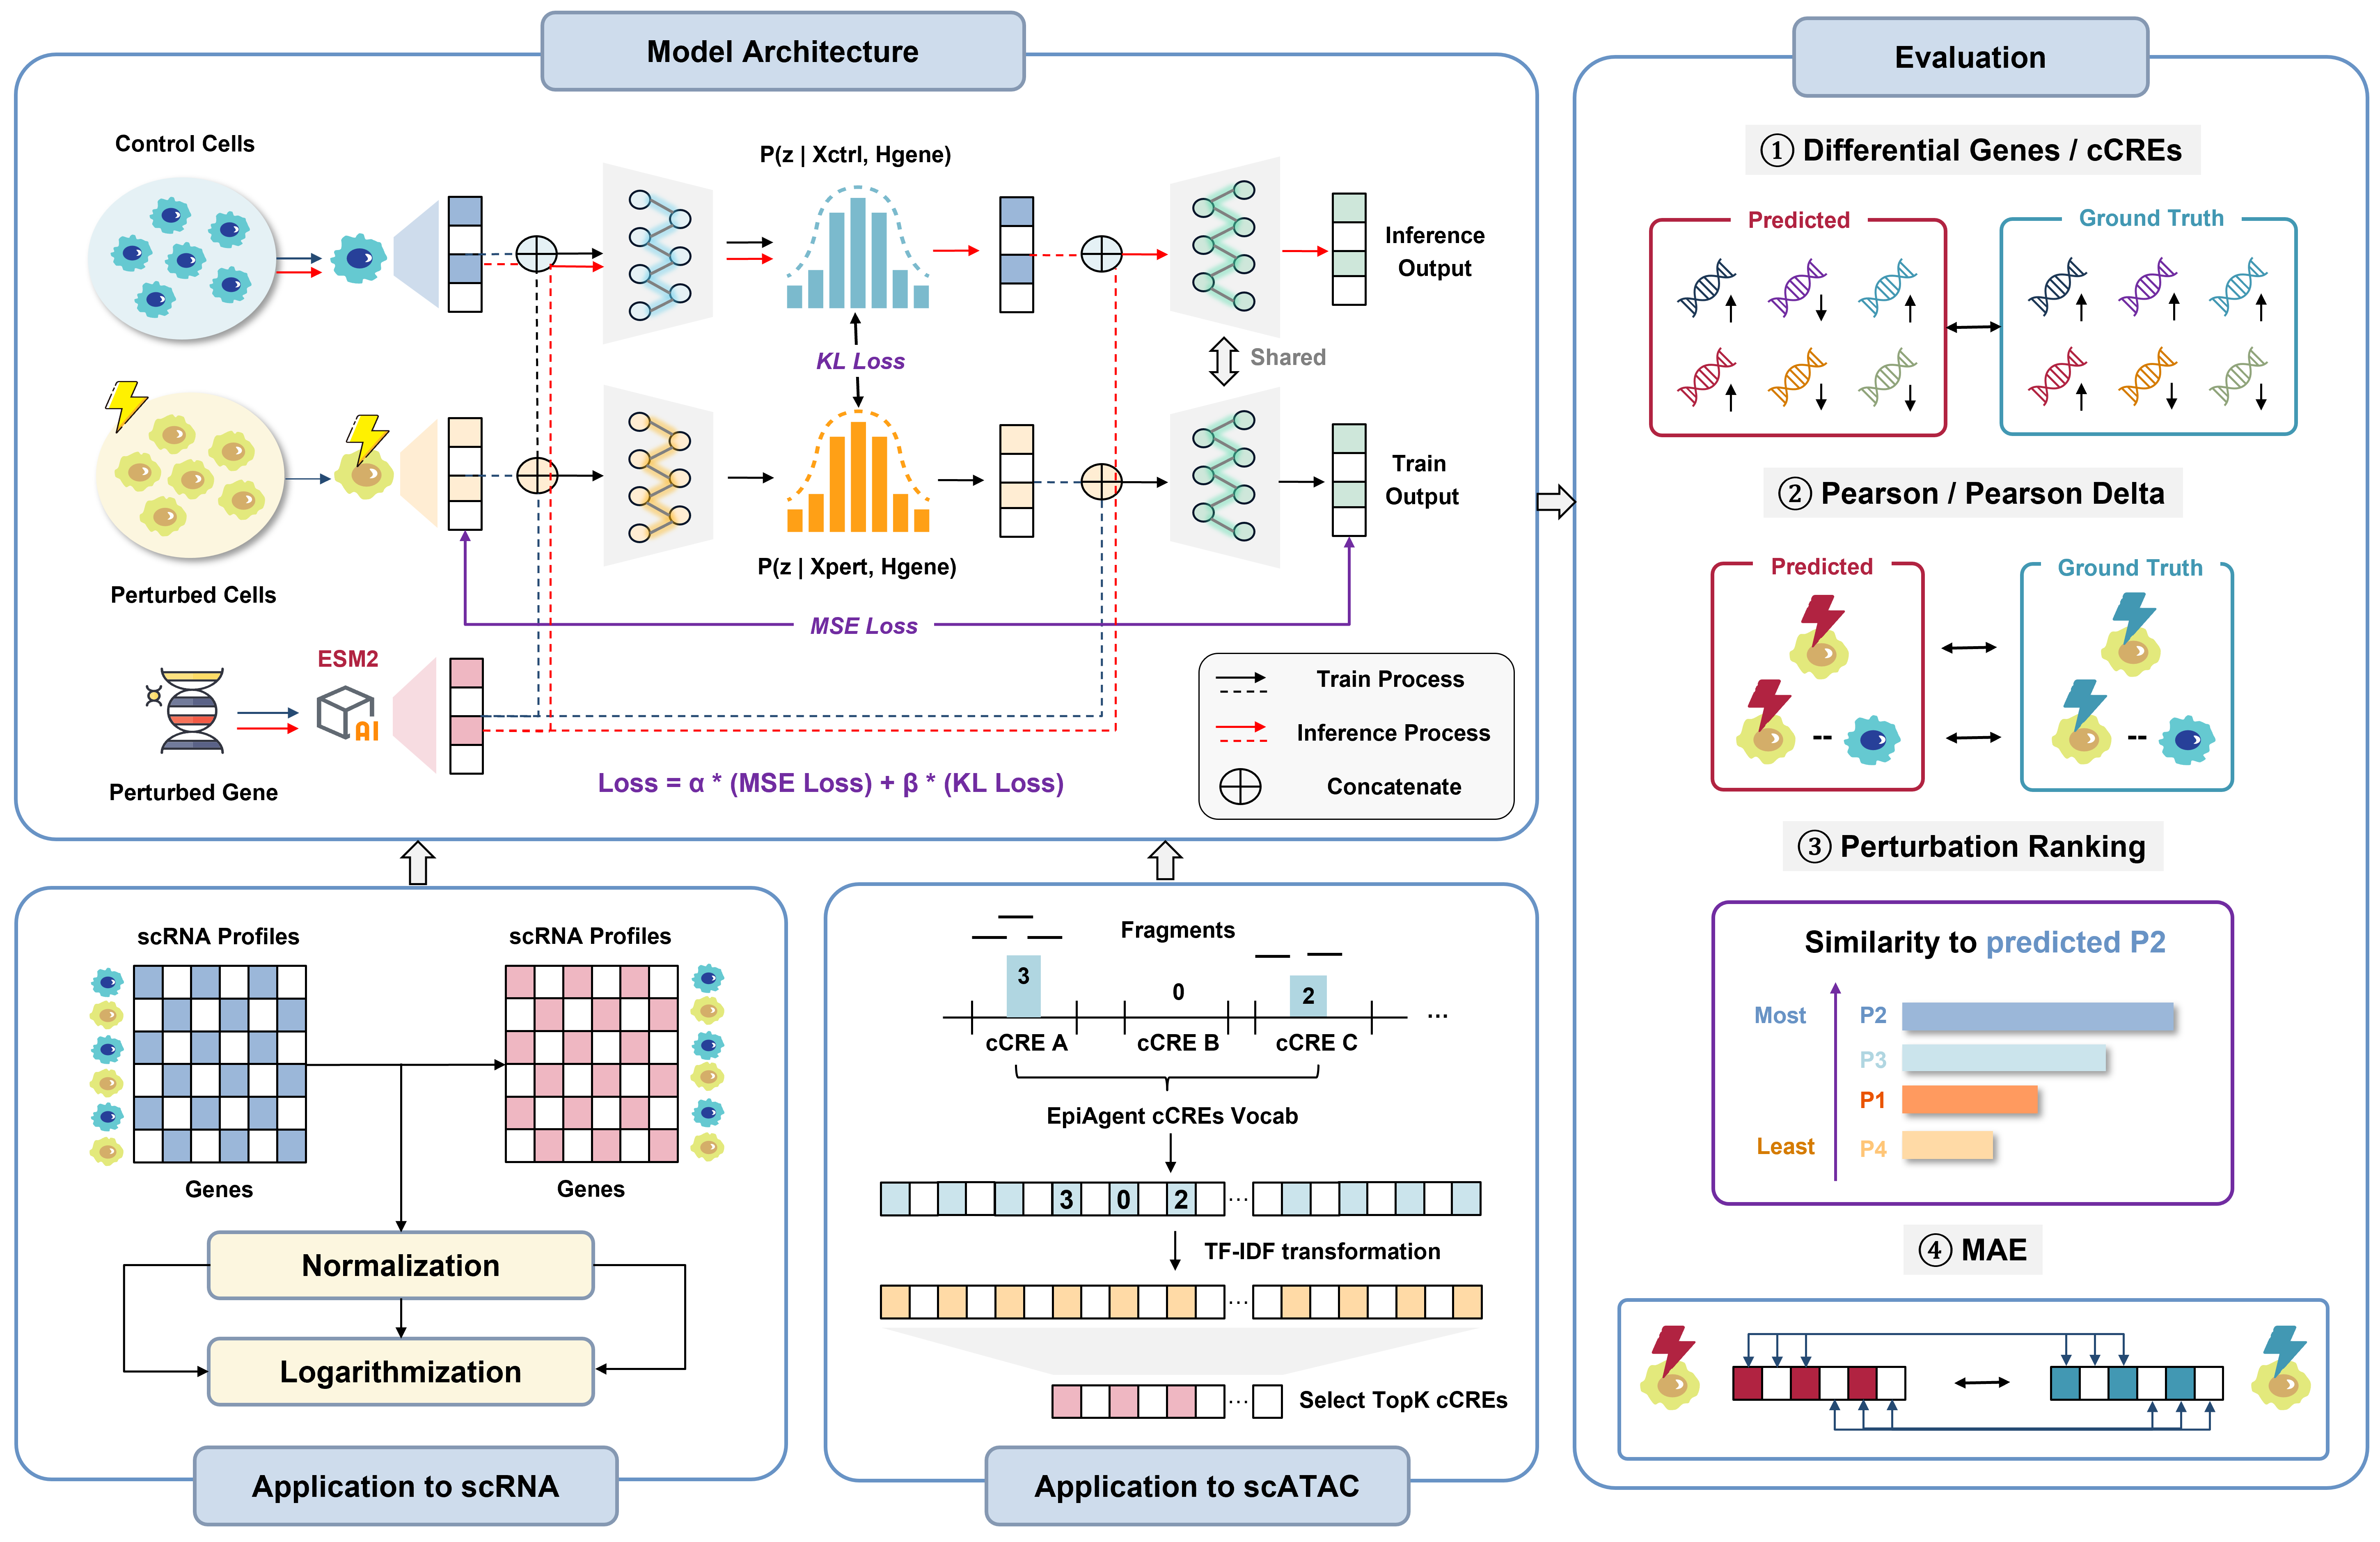
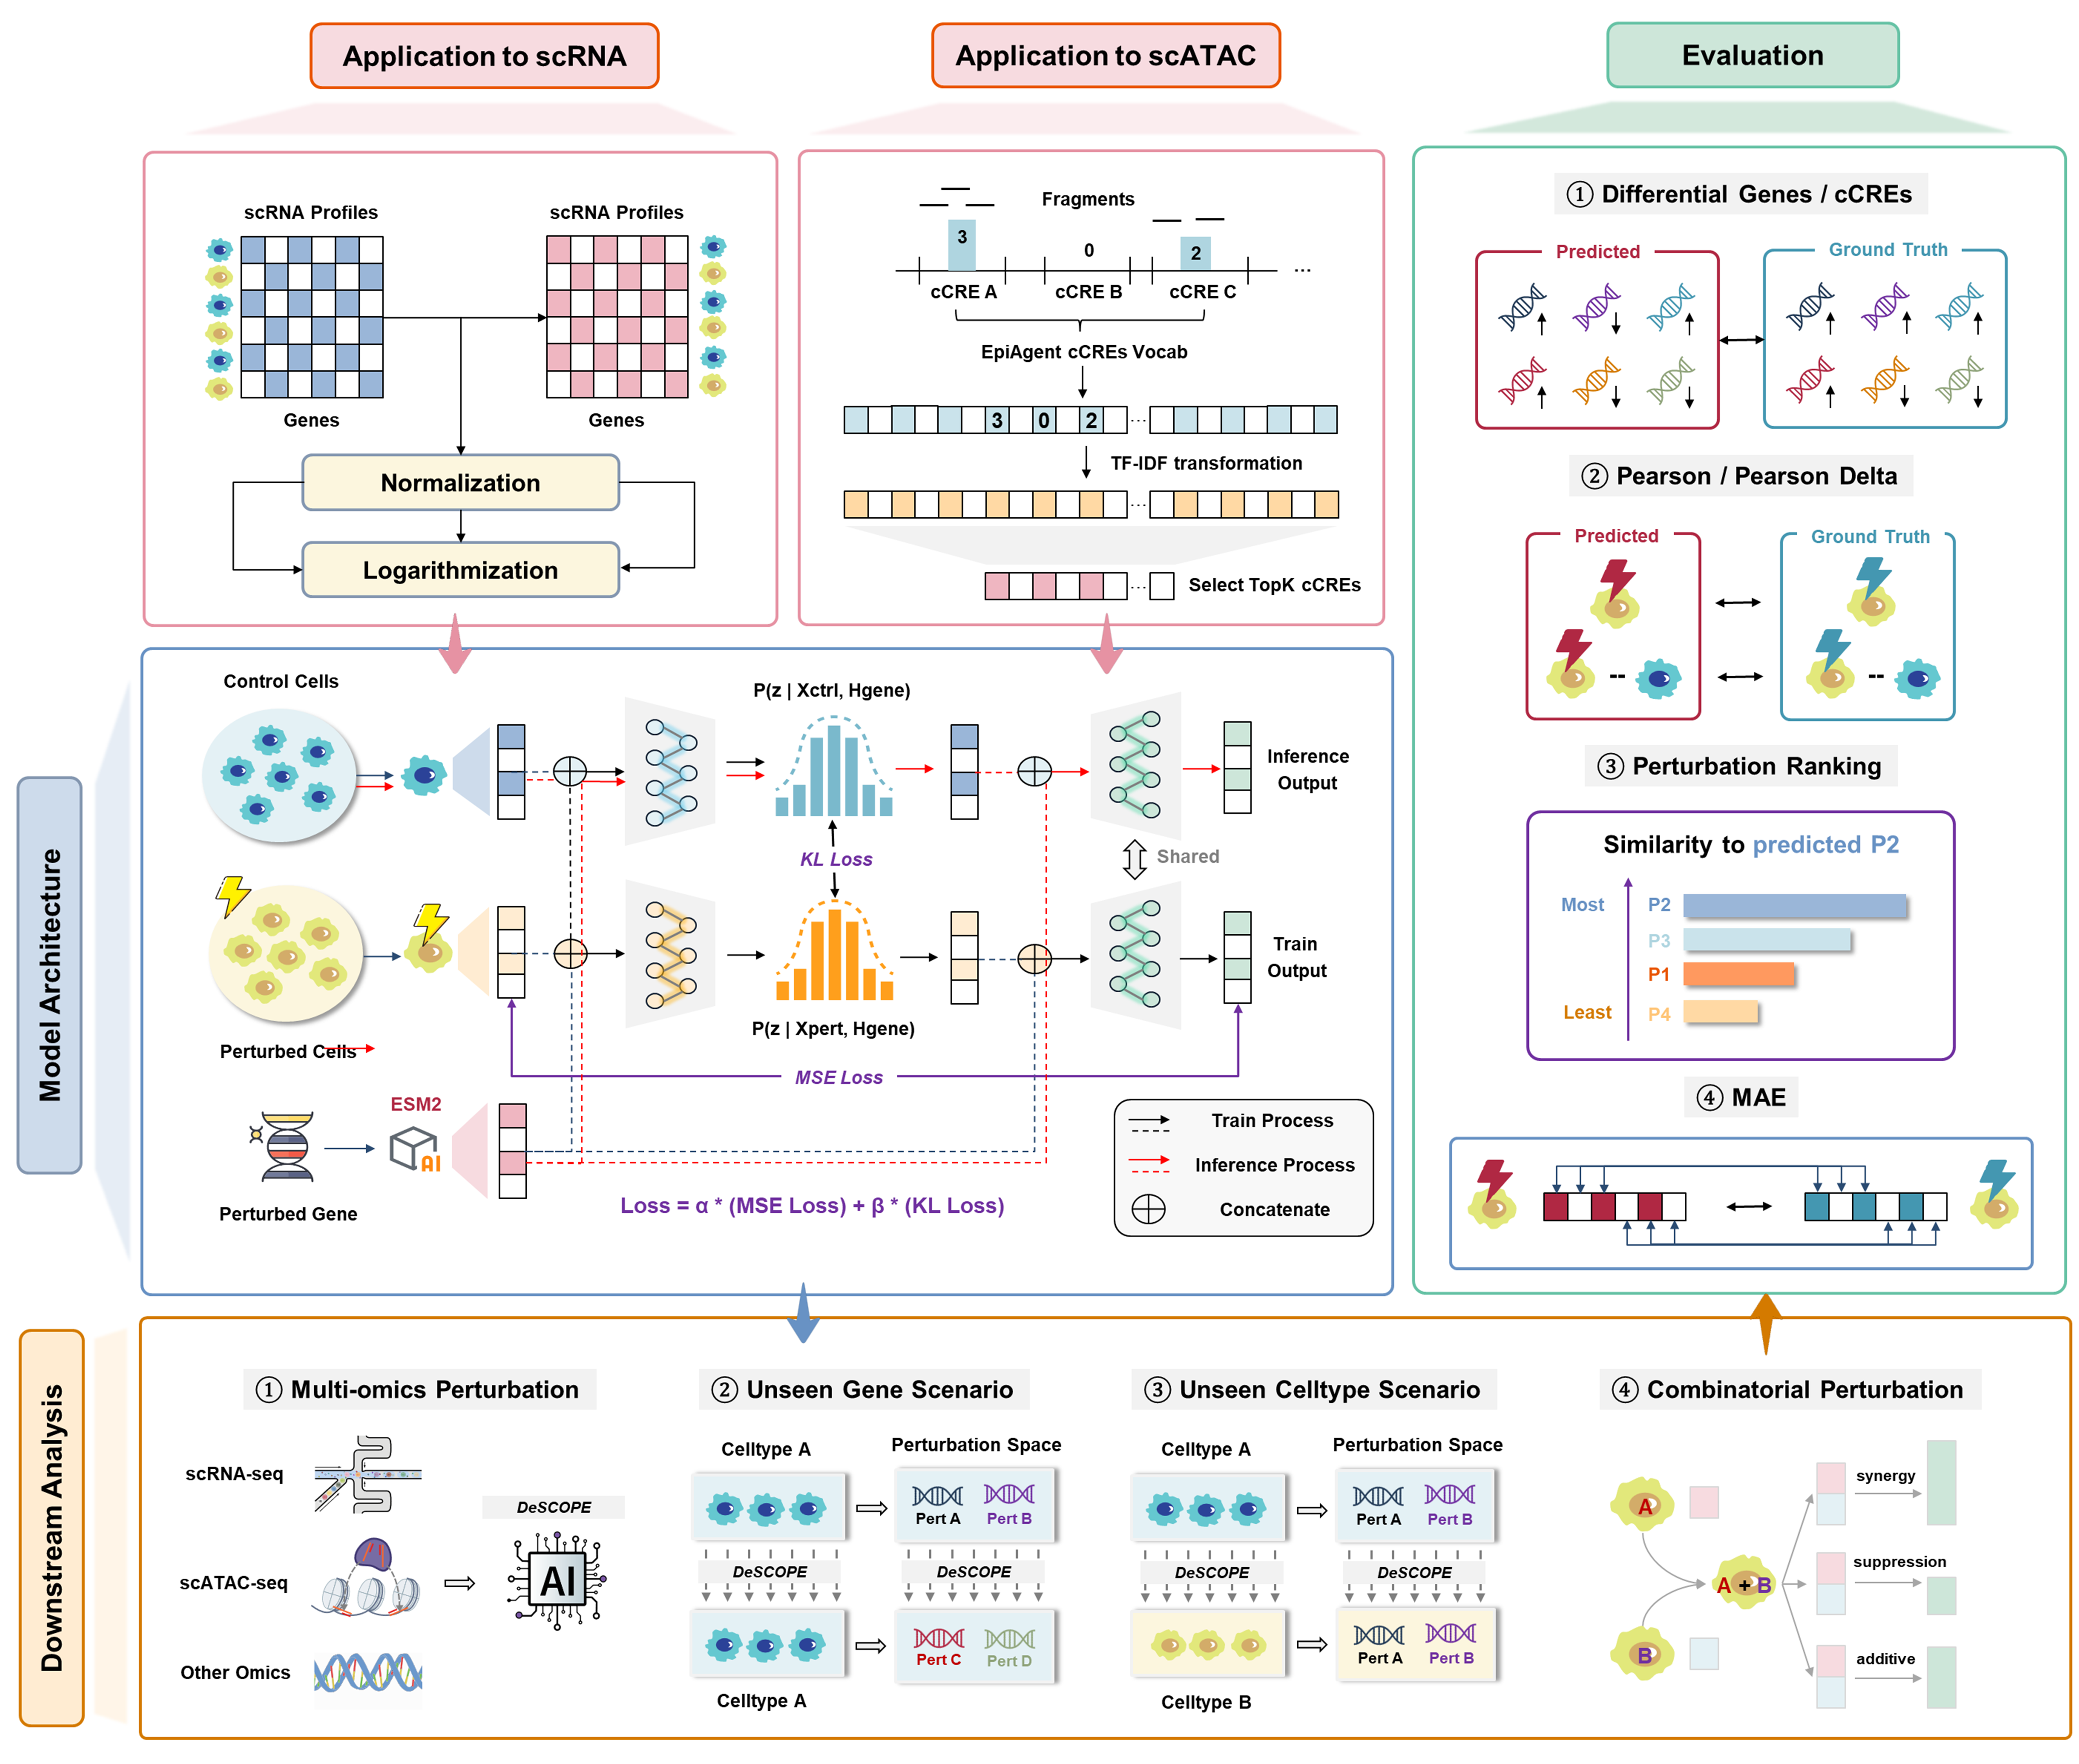
🌏 Update README

Changed region(s): [[0.0, 0.0, 1.0, 0.9968], [0.1244, 0.0, 0.6221, 0.0623]]

diff --git a/README.md b/README.md
@@ -102,6 +102,7 @@ descope.welcome()
 | [Replogle et al., 2022](https://www.cell.com/cell/fulltext/S0092-8674(22)00597-9) |      RPE1 (8.1GB)      | [download](https://plus.figshare.com/ndownloader/files/[phone redacted]) |
 | [Nadig et al., 2025](https://www.nature.com/articles/s41588-025-02169-3) |     HEPG2 (5.2GB)      | [download](https://www.ncbi.nlm.nih.gov/geo/download/?acc=GSE264667&format=file&file=GSE264667%5Fhepg2%5Fraw%5Fsinglecell%5F01%2Eh5ad) |
 | [Nadig et al., 2025](https://www.nature.com/articles/s41588-025-02169-3) |     JURKAT (8.7GB)     | [download](https://www.ncbi.nlm.nih.gov/geo/download/?acc=GSE264667&format=file&file=GSE264667%5Fjurkat%5Fraw%5Fsinglecell%5F01%2Eh5ad) |
+| [Norman et al., 2019](https://www.science.org/doi/10.1126/science.aax4438) |      Norman_K562       | [download](https://www.ncbi.nlm.nih.gov/geo/query/acc.cgi?acc=GSE133344) |
 
 - The H1 dataset was obtained from the [Virtual Cell Challenge 2025](https://virtualcellchallenge.org/). ([download](https://storage.googleapis.com/vcc_data_prod/datasets/state/competition_support_set.zip))
   - NOTE: ESM2 gene embeddings can also be obtained from here.

diff --git a/docs/source/Datasets.md b/docs/source/Datasets.md
@@ -9,6 +9,7 @@
 | [Replogle et al., 2022](https://www.cell.com/cell/fulltext/S0092-8674(22)00597-9) |      RPE1 (8.1GB)      | [download](https://plus.figshare.com/ndownloader/files/[phone redacted]) |
 | [Nadig et al., 2025](https://www.nature.com/articles/s41588-025-02169-3) |     HEPG2 (5.2GB)      | [download](https://www.ncbi.nlm.nih.gov/geo/download/?acc=GSE264667&format=file&file=GSE264667%5Fhepg2%5Fraw%5Fsinglecell%5F01%2Eh5ad) |
 | [Nadig et al., 2025](https://www.nature.com/articles/s41588-025-02169-3) |     JURKAT (8.7GB)     | [download](https://www.ncbi.nlm.nih.gov/geo/download/?acc=GSE264667&format=file&file=GSE264667%5Fjurkat%5Fraw%5Fsinglecell%5F01%2Eh5ad) |
+| [Norman et al., 2019](https://www.science.org/doi/10.1126/science.aax4438) |      Norman_K562       | [download](https://www.ncbi.nlm.nih.gov/geo/query/acc.cgi?acc=GSE133344) |
 
 - The H1 dataset was obtained from the [Virtual Cell Challenge 2025](https://virtualcellchallenge.org/) ([download](https://storage.googleapis.com/vcc_data_prod/datasets/state/competition_support_set.zip)).
   - NOTE: ESM2 gene embeddings can also be obtained from here.